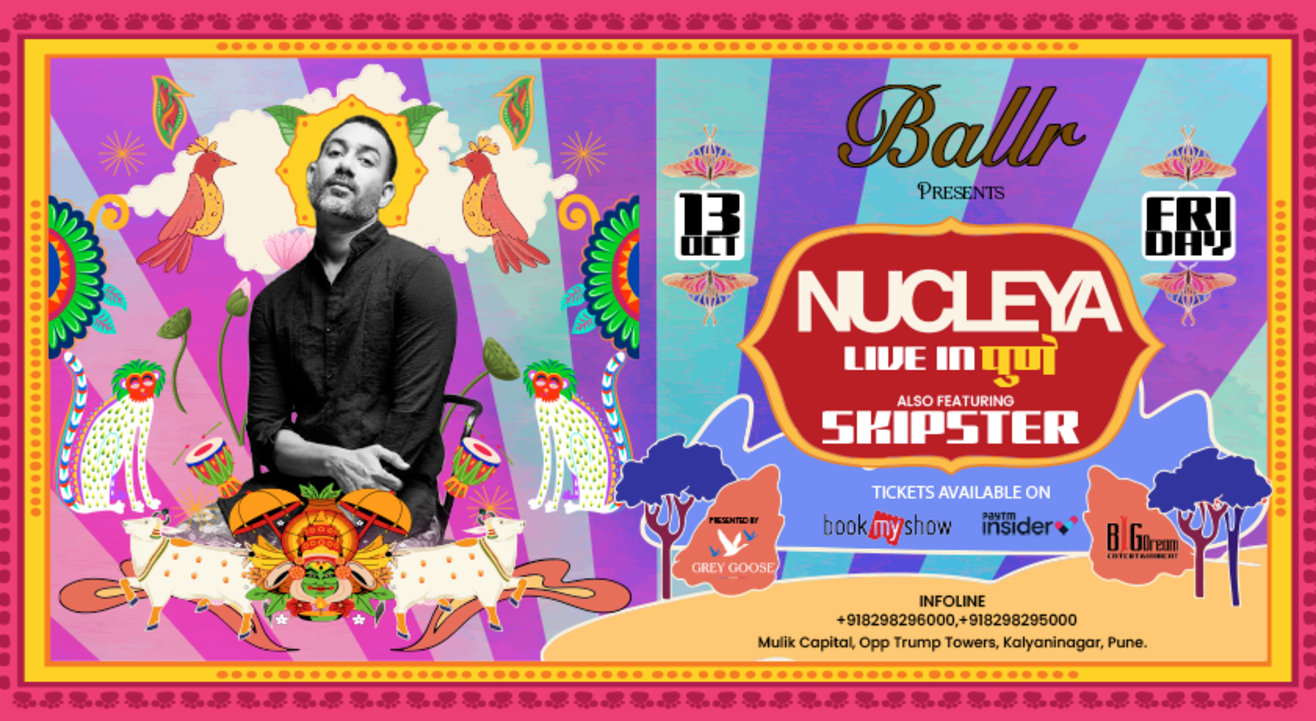
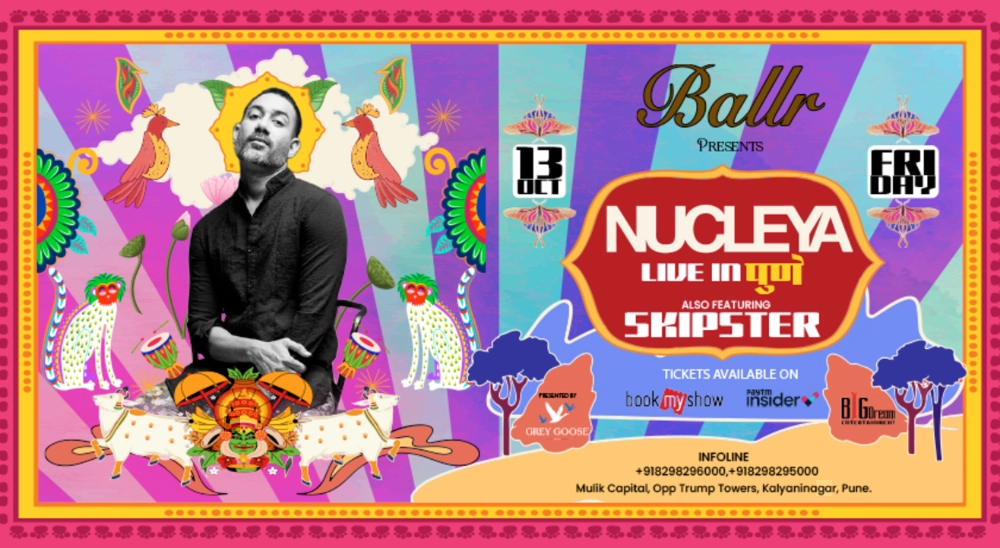
fix: poster component

diff --git a/src/app/_components/corePage/poster.tsx b/src/app/_components/corePage/poster.tsx
@@ -20,13 +20,7 @@ export const Poster: React.FC = () => {
 				</div>
 			</div>
 			<div className='image xs:max-sm:w-[100vw] '>
-				<Image
-					src={posterpic}
-					alt='hero'
-					width={800}
-					height={600}
-					loading='eager'
-				/>
+				<Image src={posterpic} alt='hero' loading='eager' />
 			</div>
 		</div>
 	);
